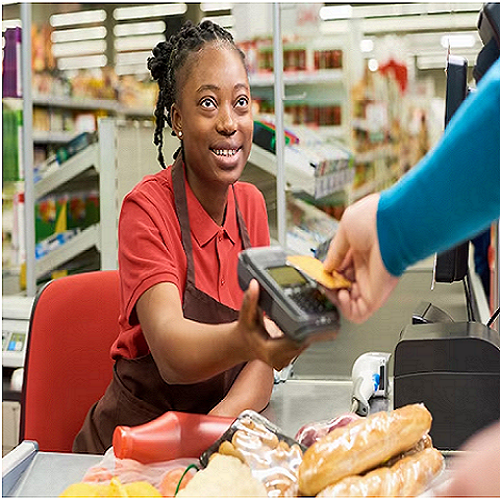
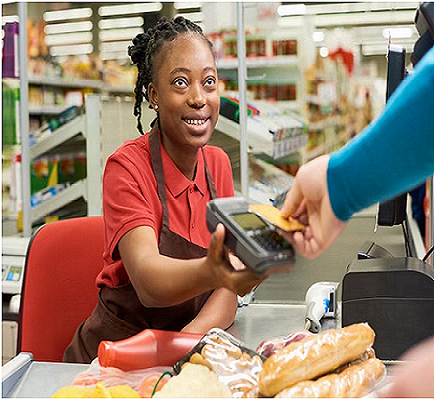
images

diff --git a/index.html b/index.html
@@ -33,29 +33,28 @@
 				<!-- Two -->
 					<section class="spotlight style1 orient-right content-align-left image-position-center onscroll-image-fade-in" id="first">
 						<div class="content">
-							<h2>Food Claim Exploratory Analysis in Python</h2>
+							<h2>Food Claim Exploratory Analysis On Python</h2>
 							<p>Business Background: Vivendo is a fast food chain in Brazil with over 200 outlets. Customers often claim compensation from the company for food poisoning. The legal team processes these claims. The legal team has offices in four locations. The legal team wants to improve how long it takes to reply to customers and close claims. The head of the legal department wants a report on how each location differs in the time it takes to close claims.</p>
 							<ul class="actions stacked">
 								<li><a href="https://github.com/mikeolaniyi/Food-Claim-Exploratory-Analysis-on-Python/blob/main/README.md" class="button">Read More</a></li>
 							</ul>
 						</div>
 						<div class="image">
-							<img src="images/Food_claim..jpg" alt="" />
+							<img src="images/Food_claim.jpg" alt="" />
 						</div>
 					</section>
 
 				<!-- Three -->
 				<section class="spotlight style1 orient-left content-align-left image-position-center onscroll-image-fade-in">
 					<div class="content">
-						<h2>Product Sales Exploratory Data Analysis in Python</h2>
-						<p>Business Questions: The Business Executives Wants To Know:</p>
-						<ul class="bullet-points">
-							<ul>
-								<li>How Many Customers Were There For Each Approach</li>
-								<li>What Does The Spread Of The Revenue Look Like Overall And For Each Method?</li>
-								<li>Was There Any Difference In Revenue Over Time For Each Of The Methods?</li>
-								<li>Based On The Data, Which Method Would You Recommend We Continue To Use?</li>
-							</ul>
+						<h2 style="font-size: 26px; font-weight: bold;">Product Sales Exploratory Data Analysis On Python</h2>
+						<p>Business Questions: The Business Executives Want To Know:</p>
+						<ul>
+							<li>How Many Customers Were There For Each Approach</li>
+							<li>What Does The Spread Of The Revenue Look Like Overall And For Each Method?</li>
+							<li>Was There Any Difference In Revenue Over Time For Each Of The Methods?</li>
+							<li>Based On The Data, Which Method Would You Recommend We Continue To Use?</li>
+						</ul>
 						</ul>
 						<ul class="actions stacked">
 							<li><a href="https://github.com/mikeolaniyi/Product_Sales_Analysis" class="button">Read More</a></li>
@@ -69,10 +68,10 @@
 				<!-- Four -->
 				<section class="spotlight style1 orient-right content-align-left image-position-right onscroll-image-fade-in">
 					<div class="content">
-						<h2>Covid-19 Vaccination Analysis</h2>
+						<h2 style="font-size: 26px; font-weight: bold;">Covid-19 Vaccination Analysis On Microsoft SQL Server</h2>
 						<p>The Covid-19 pandemic was unprecedented and claimed numerous lives. I embarked on a journey to gain insights into the global impact of Covid-19. The datasets utilized for this project were sourced from the World Health Organization (WHO). The analysis was conducted using Microsoft SQL Server.</p>
 						<p>The following questions are what this analysis seeks to answer:</p>
-						<ul class="bullet-points">
+						<ul class="bullet-points" style="line-height: 1.2;">
 							<li>Percent Population Vaccinated</li>
 							<li>Percent Population Vaccinated</li>
 							<li>Deaths By Continent</li>
@@ -86,7 +85,7 @@
 						</ul>
 					</div>
 					<div class="image">
-						<img src="images/Covid19-.jpg" alt="" style="width: 100%; height: 90%; display: block; margin: 0 auto;" />
+						<img src="images/Covid0.jpg" alt="" style="width: 100%; height: 90%; display: block; margin: 0 auto;" />
 					</div>
 				</section>
 
@@ -94,7 +93,7 @@
 					<!-- Five -->
 					<section class="spotlight style1 orient-left content-align-left image-position-center onscroll-image-fade-in">
 						<div class="content">
-							<h2>Maintenance KPIs Backlog Analysis on Power BI</h2>
+							<h2 style="font-size: 26px; font-weight: bold;">Maintenance KPIs Backlog Analysis on Power BI</h2>
 							<p>This project showcases how various departments within the organization can enhance the efficiency of scheduling and conducting technical maintenance activities.</p>
 							<ul class="actions stacked">
 								<li><a href="https://github.com/mikeolaniyi/Maintenance_KPIs_Backlog_Analysis/blob/main/README.md" class="button">Read More</a></li>
@@ -110,9 +109,9 @@
 					<!-- Six -->
 					<section class="spotlight style1 orient-right content-align-left image-position-center onscroll-image-fade-in" id="first">
 						<div class="content">
-							<h2>Social Media Management Tool Project</h2>
+							<h2 style="font-size: 26px; font-weight: bold;">Social Media Management Tool Project On Excel And Tableau</h2>
 							<p> The Social Media Management Tool Project was a research endeavor I conducted to produce a report containing actionable insights for my team regarding the Social Media Management Tool project we were developing. This project, known as Synkify, aimed to facilitate businesses in integrating all their social media platforms within a unified user interface. The ultimate goal was to enhance interactions between businesses and customers, optimizing their effectiveness.</p>
-						</p>This analysis and visualization was done on Tableau.</p>
+						</p>The dataset of this project was a collection of data from web research. The analysis was done in Excel and visualization was done in Tableau.</p>
 							<ul class="actions stacked">
 								<li><a href="https://github.com/mikeolaniyi/SMMT_Project/blob/main/README.md" class="button">Read More</a></li>
 							</ul>
@@ -125,7 +124,7 @@
 					<!-- Seven -->
 					<section class="spotlight style1 orient-left content-align-left image-position-center onscroll-image-fade-in">
 						<div class="content">
-							<h2>My Projects On Tableau</h2>
+							<h2 style="font-size: 26px; font-weight: bold;">My Projects On Tableau</h2>
 							<p>I have utilised Tableau for various projects, these projects encompassed various domains, including Udemy courses analysis, Sprocket Central Pty Ltd, Social Media Management Tools and their capacity analysis, Covid-19 Project Dashboard and more.</p>
 							<ul class="actions stacked">
 								<li><a href="https://public.tableau.com/app/profile/michael.olaniyi.jeremiah" class="button">Read More</a></li>
@@ -136,11 +135,18 @@
 						</div>
 					</section>
 
-
+						<!-- Eight -->
 					<section class="spotlight style1 orient-right content-align-left image-position-center onscroll-image-fade-in" id="first">
-						<div class="content">
-							<h2>Sales and Transactions Report Analysis on Power BI</h2>
+						<div class="content" style="line-height: 1.0;">
+							<h2 style="font-size: 26px; font-weight: bold;">Sales and Transactions Report Analysis on Power BI</h2>
 							<p>The following highlights Sales transactions over the period of 4 years:</p>
+							<style>
+								.bullet-points {
+									columns: 2;
+									-webkit-columns: 2;
+									-moz-columns: 2;
+								}
+							</style>							
 							<ul class="bullet-points">
 								<li>How sales trended over the Month</li>
 								<li>How Customer Segments Rank over the Month</li>
@@ -164,16 +170,14 @@
 						</div>
 						
 						<div class="image">
-							<img src="images/Sales POS2.png" alt="images/Sales POS2.png" class="normal-image" width="full-width" height="full-height" display: block; />
-							
+							<img src="images/Sales POS.jpg" alt="images/Sales POS2.png" class="normal-image" width="full-width" height="full-height" display: block; />
 						</div>
 					</section>
-
 
 				<!-- Nine -->
 					<section class="wrapper style1 align-center">
 						<div class="inner">
-							<h2>Dashboards And Visualizations</h2>
+							<h2 style="font-size: 26px; font-weight: bold;">Dashboards And Visualizations</h2>
 							<p>Most stakeholders' primary focus revolves around insights. It has been proven that conveying insights through images is more comprehensible than using figures alone. Therefore, I've extensively researched optimal chart formats for various audiences and the unique aspects of the insights to be communicated.</p>
 							<p>Here are a few dashboards and Charts I created using Python, Power BI, Tableau, and Excel<p>
 						</div>
